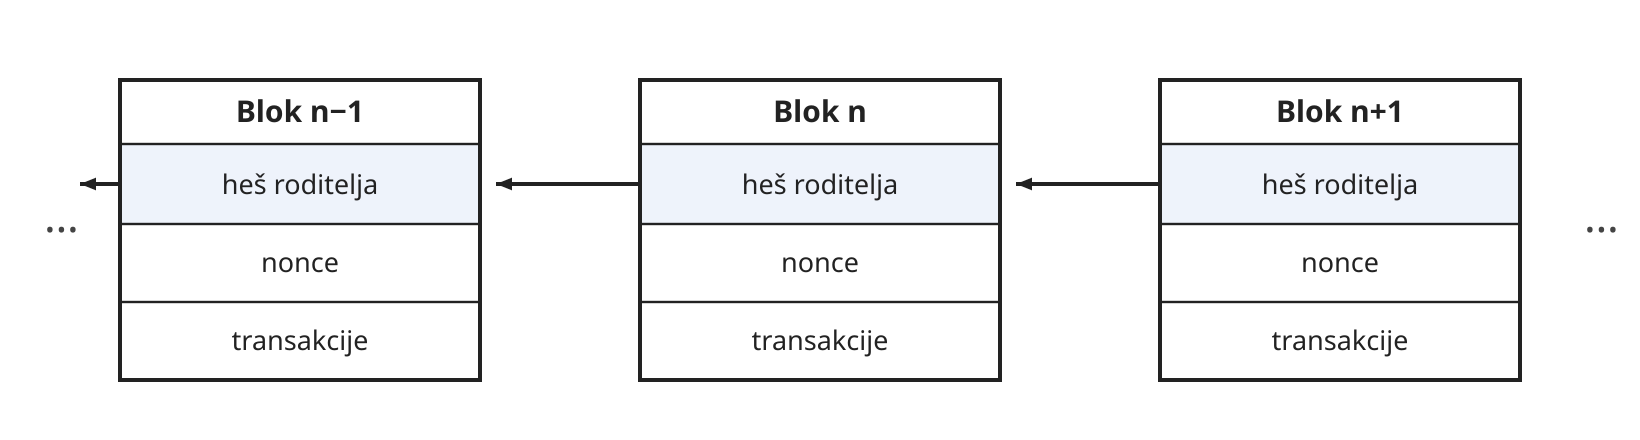
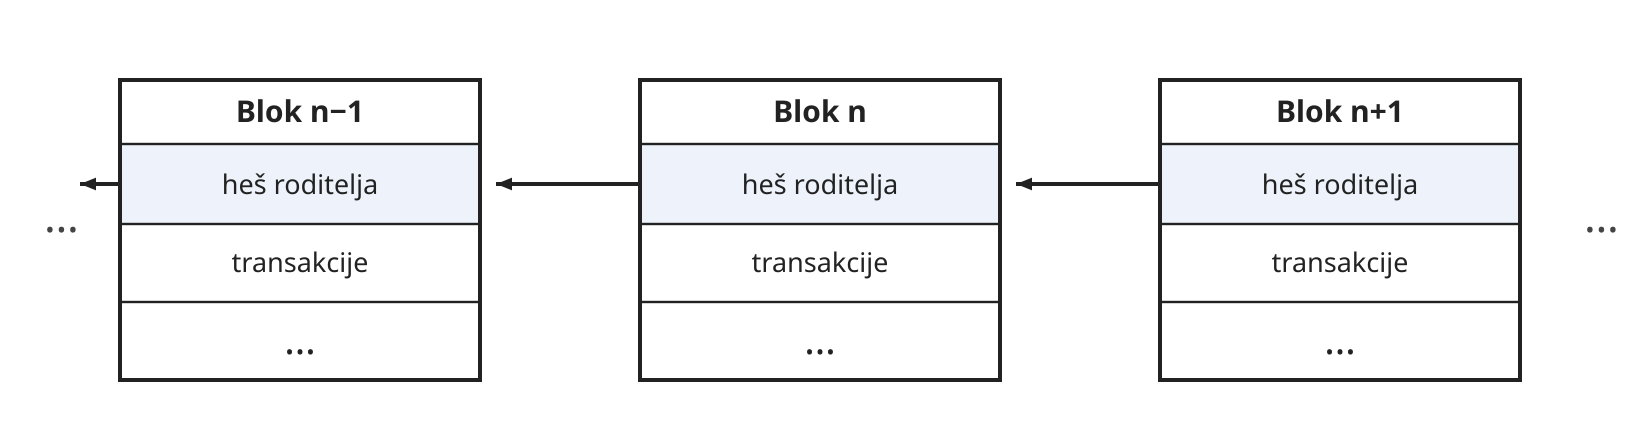
refactor(book): blockchain images

diff --git a/book/src/lec11-blockchain.md b/book/src/lec11-blockchain.md
@@ -85,7 +85,11 @@ Jedan pristup održavanju stanja je da se vodi evidencija o računu svakog
 korisnika, odnosno da se održava mapiranje iz adrese u vrednost izraženu u
 valuti blokčejna (ovo je npr. pristup koji koristi Ethereum).
 
-![Model računa: mapiranje adresa u stanje](images/accounts.png)
+| Adresa | Stanje |
+|--------|--------|
+| A | 30 |
+| B | 12 |
+| C | 7  |
 
 U nastavku teksta ćemo se fokusirati na drugi pristup (koji koristi Bitcoin).
 Ovaj pristup održava skup nepotrošenih izlaza transakcija (eng. *unspent
@@ -305,13 +309,19 @@ P_n\\), od kojih je samo jedan pravi ulaz koji se troši. Umesto potpisa je
 moguće priložiti neinteraktivan ILI-dokaz koji dokazuje poznavanje tajnog
 ključa za jedan od tih \\(n\\) nepotrošenih izlaza.
 
-![Skrivanje pošiljaoca: prsten mogućih ulaza umesto jednog](images/ring1-keys.png)
-
-Na primer, za transakciju sa dva ulaza i pet izlaza, gde u svakom prstenu
-koristimo po dva lažna i jedan pravi ulaz, pošiljalac za \\(P\\) dokazuje da
-zna \\(p\\) tako da je \\(P_i = pG\\) za neko \\(i\\), bez otkrivanja
-\\(i\\). Analogno, za \\(Q\\) dokazuje da zna \\(q\\) tako da je
+Na primer, transakcija sa dva ulaza i pet izlaza, pri čemu koristimo po dva
+lažna i jedan pravi ulaz, je prikazana u nastavku. Pošiljalac za \\(P\\)
+dokazuje da zna \\(p\\) tako da je \\(P_i = pG\\) za neko \\(i\\), bez
+otkrivanja \\(i\\). Slično, za \\(Q\\) dokazuje da zna \\(q\\) tako da je
 \\(Q_j = qG\\) za neko \\(j\\), bez otkrivanja \\(j\\).
+
+~~~
+                O1
+P1, P2, P3      O2
+            ->  O3
+Q1, Q2, Q3      O4
+                O5
+~~~
 
 Da bi ovakav pristup funkcionisao, potrebno je da bude moguće dokazati da je
 vrednost trošenog ulaza jednaka zbiru vrednosti izlaza. Ovo nije bio problem
@@ -331,14 +341,23 @@ diskretnog logaritma \\(r_i - r\\). Ovo se izvodi Šnorovim dokazom. Dakle,
 ILI-dokaz treba da dokaže da, za jedan od \\(n\\) ulaza, poznajemo odgovarajući
 tajni ključ, kao i da za isti taj ulaz znamo \\(r_i - r\\).
 
-![Skrivanje pošiljaoca uz obaveze na vrednosti ulaza](images/ring2-commitments.png)
+Na primer, u sledećoj transakciji sa dva ulaza i pet izlaza bilo ko može da
+proveri da li je \\(D_P + D_Q = C_1 + C_2 + C_3 + C_4 + C_5\\). Pošiljalac za
+\\(P\\) dokazuje da zna \\(p\\) tako da je \\(P_i = pG\\) i da se \\(C_{P_i}\\)
+i \\(D_P\\) obavezuju na istu vrednost za neko \\(i\\), bez otkrivanja \\(i\\).
+Slično za \\(Q\\).
 
-Bilo ko može da proveri da je \\(D_P + D_Q = C_1 + C_2 + C_3 + C_4 + C_5\\).
-Pošiljalac za \\(P\\) dokazuje da zna \\(p\\) tako da je \\(P_i = pG\\)
-i da se \\(C_{P_i}\\) i \\(D_P\\) obavezuju na istu vrednost, za neko
-\\(i\\), bez otkrivanja \\(i\\). Analogno, za \\(Q\\) dokazuje da zna
-\\(q\\) tako da je \\(Q_j = qG\\) i da se \\(C_{Q_j}\\) i \\(D_Q\\)
-obavezuju na istu vrednost, za neko \\(j\\), bez otkrivanja \\(j\\).
+~~~
+P1, Cp1
+P2, Cp2
+P3, Cp3      O1, C1
+Dp           O2, C2
+         ->  O3, C3
+Q1, Cq1      O4, C4
+Q2, Cq2      O5, C5
+Q3, Cq3
+Dq
+~~~
 
 Postoji još jedan problem koji se javlja skrivanjem ulaza. U pitanju je
 sprečavanje ponovnog trošenja istog ulaza. Konkretno, u javnom UTXO modelu, ovo
@@ -356,15 +375,24 @@ samo poznavanje \\(p\\) koje odgovara javnom ključu \\(P\\) sa spiska, nego i
 da je zaista \\(I = p H(P)\\). Drugim rečima, neophodan je Čaum-Pedersen dokaz
 za tajni ključ \\(p\\) i probleme \\(P = pG\\) i \\(I = p H(P)\\).
 
-![Skrivanje pošiljaoca uz slike ključeva](images/ring3-keyimages.png)
+Na primeru naredne transakcije, pošiljalac za \\(P\\) dokazuje da zna \\(p\\)
+tako da je \\(P_i = pG\\) i \\(I_P = p H(P_i)\\) i da se \\(C_{P_i}\\) i
+\\(D_P\\) obavezuju na istu vrednost za neko \\(i\\), bez otkrivanja \\(i\\).
+Slično za \\(Q\\).
 
-Bilo ko može da proveri da je \\(D_P + D_Q = C_1 + C_2 + C_3 + C_4 + C_5\\).
-Pošiljalac za \\(P\\) dokazuje da zna \\(p\\) tako da je \\(P_i = pG\\)
-i \\(I_P = p H(P_i)\\), kao i da se \\(C_{P_i}\\) i \\(D_P\\) obavezuju
-na istu vrednost, za neko \\(i\\), bez otkrivanja \\(i\\). Analogno, za
-\\(Q\\) dokazuje da zna \\(q\\) tako da je \\(Q_j = qG\\) i
-\\(I_Q = q H(Q_j)\\), kao i da se \\(C_{Q_j}\\) i \\(D_Q\\) obavezuju
-na istu vrednost, za neko \\(j\\), bez otkrivanja \\(j\\).
+~~~
+P1, Cp1
+P2, Cp2
+P3, Cp3
+Dp           O1, C1
+Ip           O2, C2
+         ->  O3, C3
+Q1, Cq1      O4, C4
+Q2, Cq2      O5, C5
+Q3, Cq3
+Dq
+Iq
+~~~
 
 ### Dokaz o opsegu
 